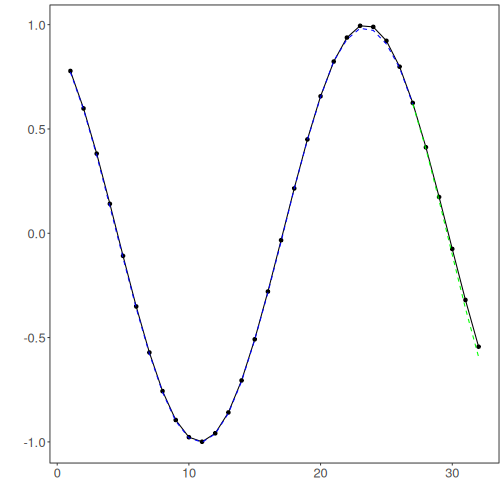
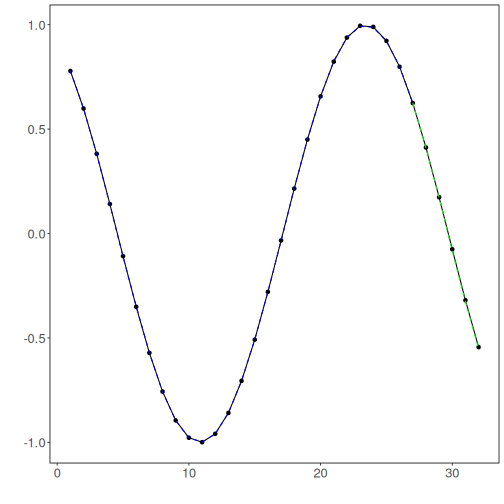
Update

diff --git a/timeseries/ts_integtune.md b/timeseries/ts_integtune.md
@@ -1,31 +1,38 @@
-```{r}
+
+``` r
 # Installing tspredit
 install.packages("tspredit")
 ```
 
-```{r}
+
+``` r
 # Loading tspredit
 library(daltoolbox)
 library(tspredit) 
 ```
 
 
-```{r}
+
+``` r
 # Cosine time series for studying
 
 i <- seq(0, 25, 0.25)
 x <- cos(i)
 ```
 
-```{r}
+
+``` r
 # plot the time series
 
 plot_ts(x=i, y=x) + theme(text = element_text(size=16))
 ```
 
+![plot of chunk unnamed-chunk-4](fig/ts_integtune/unnamed-chunk-4-1.png)
 
 
-```{r}
+
+
+``` r
 # Sliding windows
 
 # Creates a matrix representing a sliding window to be used in the process of training the model. Each row of the matrix represents one moment of the sliding window, with 10 (ten) elements as attributes (t9, t8, t7, ..., t0).
@@ -35,7 +42,15 @@ ts <- ts_data(x, sw_size)
 ts_head(ts, 3)
 ```
 
-```{r}
+```
+##             t9        t8        t7        t6        t5         t4         t3         t2         t1         t0
+## [1,] 1.0000000 0.9689124 0.8775826 0.7316889 0.5403023  0.3153224  0.0707372 -0.1782461 -0.4161468 -0.6281736
+## [2,] 0.9689124 0.8775826 0.7316889 0.5403023 0.3153224  0.0707372 -0.1782461 -0.4161468 -0.6281736 -0.8011436
+## [3,] 0.8775826 0.7316889 0.5403023 0.3153224 0.0707372 -0.1782461 -0.4161468 -0.6281736 -0.8011436 -0.9243024
+```
+
+
+``` r
 # Data sampling
 
 # Samples data into train and test.
@@ -43,29 +58,47 @@ ts_head(ts, 3)
 test_size <- 1
 samp <- ts_sample(ts, test_size)
 ts_head(samp$train, 3)
+```
+
+```
+##             t9        t8        t7        t6        t5         t4         t3         t2         t1         t0
+## [1,] 1.0000000 0.9689124 0.8775826 0.7316889 0.5403023  0.3153224  0.0707372 -0.1782461 -0.4161468 -0.6281736
+## [2,] 0.9689124 0.8775826 0.7316889 0.5403023 0.3153224  0.0707372 -0.1782461 -0.4161468 -0.6281736 -0.8011436
+## [3,] 0.8775826 0.7316889 0.5403023 0.3153224 0.0707372 -0.1782461 -0.4161468 -0.6281736 -0.8011436 -0.9243024
+```
+
+``` r
 ts_head(samp$test)
 ```
 
-```{r}
+```
+##              t9        t8         t7          t6        t5       t4       t3        t2        t1        t0
+## [1,] -0.7256268 -0.532833 -0.3069103 -0.06190529 0.1869486 0.424179 0.635036 0.8064095 0.9276444 0.9912028
+```
+
+
+``` r
 # Model training
 
 # Tune optimizes a learner hyperparameter, no matter which one. This way, in this example, an ELM is used in the hyperparameters tuning using an appropriate range. The result of tunning is an ELM model for the training set.
 
 # Setup for tunning using ELM
-tune <- ts_maintune(input_size=c(3:5), base_model = ts_elm(), preprocess = list(ts_norm_gminmax()))
-ranges <- list(nhid = 1:5, actfun=c('sig', 'radbas', 'tribas', 'relu', 'purelin'))
+tune <- ts_integtune(input_size=c(3:5), base_model = ts_elm(), preprocess = list(ts_norm_gminmax()),
+                    ranges = list(nhid = 1:5, actfun=c('sig', 'radbas', 'tribas', 'relu', 'purelin')))
 ```
 
-```{r}
+
+``` r
 # The prediction output using the training set can be used to evaluate the model's adjustment level to the training data:
 
 io_train <- ts_projection(samp$train)
 
 # Generic model tunning
-model <- fit(tune, x=io_train$input, y=io_train$output, ranges)
+model <- fit(tune, x=io_train$input, y=io_train$output)
 ```
 
-```{r}
+
+``` r
 # Evaluation of adjustment
 
 adjust <- predict(model, io_train$input)
@@ -73,7 +106,13 @@ ev_adjust <- evaluate(model, io_train$output, adjust)
 print(head(ev_adjust$metrics))
 ```
 
-```{r}
+```
+##            mse        smape R2
+## 1 3.235577e-30 7.125308e-15  1
+```
+
+
+``` r
 # Prediction of test
 
 steps_ahead <- 1
@@ -88,15 +127,33 @@ if (steps_ahead > 1)
 print(sprintf("%.2f, %.2f", output, prediction))
 ```
 
-```{r}
+```
+## [1] "0.99, 0.99"
+```
+
+
+``` r
 # Evaluation of test data
 
 ev_test <- evaluate(model, output, prediction)
 print(head(ev_test$metrics))
+```
+
+```
+##           mse        smape   R2
+## 1 1.49144e-30 1.232084e-15 -Inf
+```
+
+``` r
 print(sprintf("smape: %.2f", 100*ev_test$metrics$smape))
 ```
 
-```{r}
+```
+## [1] "smape: 0.00"
+```
+
+
+``` r
 # Plot results
 
 # The plot shows results of the prediction. 
@@ -105,7 +162,10 @@ yvalues <- c(io_train$output, io_test$output)
 plot_ts_pred(y=yvalues, yadj=adjust, ypre=prediction) + theme(text = element_text(size=16))
 ```
 
-```{r}
+![plot of chunk unnamed-chunk-12](fig/ts_integtune/unnamed-chunk-12-1.png)
+
+
+``` r
 # Otions for machine learning
 
 # Options of ranges for all time series models:

diff --git a/timeseries/ts_lstm.md b/timeseries/ts_lstm.md
@@ -7,14 +7,11 @@
 install.packages("tspredit")
 ```
 
-```
-
-```
-
 
 ``` r
 # loading DAL
 library(daltoolbox)
+library(daltoolboxdp)
 library(tspredit)
 ```
 
@@ -72,7 +69,7 @@ ev_adjust$mse
 ```
 
 ```
-## [1] 0.0004929936
+## [1] 0.0002068997
 ```
 
 
@@ -92,7 +89,7 @@ print(sprintf("%.2f, %.2f", output, prediction))
 ```
 
 ```
-## [1] "0.41, 0.42"   "0.17, 0.17"   "-0.08, -0.10" "-0.32, -0.35" "-0.54, -0.58"
+## [1] "0.41, 0.41"   "0.17, 0.18"   "-0.08, -0.08" "-0.32, -0.33" "-0.54, -0.56"
 ```
 
 
@@ -104,8 +101,8 @@ print(head(ev_test$metrics))
 ```
 
 ```
-##            mse      smape        R2
-## 1 0.0005544012 0.09930321 0.9952116
+##            mse     smape        R2
+## 1 4.037657e-05 0.0166221 0.9996513
 ```
 
 ``` r
@@ -113,7 +110,7 @@ print(sprintf("smape: %.2f", 100*ev_test$metrics$smape))
 ```
 
 ```
-## [1] "smape: 9.93"
+## [1] "smape: 1.66"
 ```
 
 

diff --git a/timeseries/ts_conv1d.md b/timeseries/ts_conv1d.md
@@ -7,14 +7,11 @@
 install.packages("tspredit")
 ```
 
-```
-
-```
-
 
 ``` r
 # loading DAL
 library(daltoolbox)
+library(daltoolboxdp)
 library(tspredit)
 ```
 
@@ -71,7 +68,7 @@ ev_adjust$mse
 ```
 
 ```
-## [1] 5.457399e-05
+## [1] 2.67917e-06
 ```
 
 
@@ -90,20 +87,20 @@ ev_test
 ## [1]  0.41211849  0.17388949 -0.07515112 -0.31951919 -0.54402111
 ## 
 ## $prediction
-## [1]  0.4041274  0.1567712 -0.1027277 -0.3598590 -0.5930030
+## [1]  0.41087207  0.17111173 -0.08228758 -0.32581530 -0.55060460
 ## 
 ## $smape
-## [1] 0.1276187
+## [1] 0.02826605
 ## 
 ## $mse
-## [1] 0.001028778
+## [1] 2.863636e-05
 ## 
 ## $R2
-## [1] 0.9911144
+## [1] 0.9997527
 ## 
 ## $metrics
-##           mse     smape        R2
-## 1 0.001028778 0.1276187 0.9911144
+##            mse      smape        R2
+## 1 2.863636e-05 0.02826605 0.9997527
 ```
 
 

diff --git a/timeseries/ts_tune.md b/timeseries/ts_tune.md
@@ -80,8 +80,8 @@ ts_head(samp$test)
 
 # In this example, an ELM is used in the hyperparameters tuning using an appropriate range. The result of tunning is an ELM model for the training set.
 
-tune <- ts_tune(input_size=c(3:5), base_model = ts_elm(ts_norm_gminmax()))
-ranges <- list(nhid = 1:5, actfun=c('sig', 'radbas', 'tribas', 'relu', 'purelin'))
+tune <- ts_tune(input_size=c(3:5), base_model = ts_elm(ts_norm_gminmax()), 
+                ranges = list(nhid = 1:5, actfun=c('sig', 'radbas', 'tribas', 'relu', 'purelin')))
 ```
 
 
@@ -93,7 +93,7 @@ ranges <- list(nhid = 1:5, actfun=c('sig', 'radbas', 'tribas', 'relu', 'purelin'
 io_train <- ts_projection(samp$train)
 
 # Generic model tunning
-model <- fit(tune, x=io_train$input, y=io_train$output, ranges)
+model <- fit(tune, x=io_train$input, y=io_train$output)
 ```
 
 
